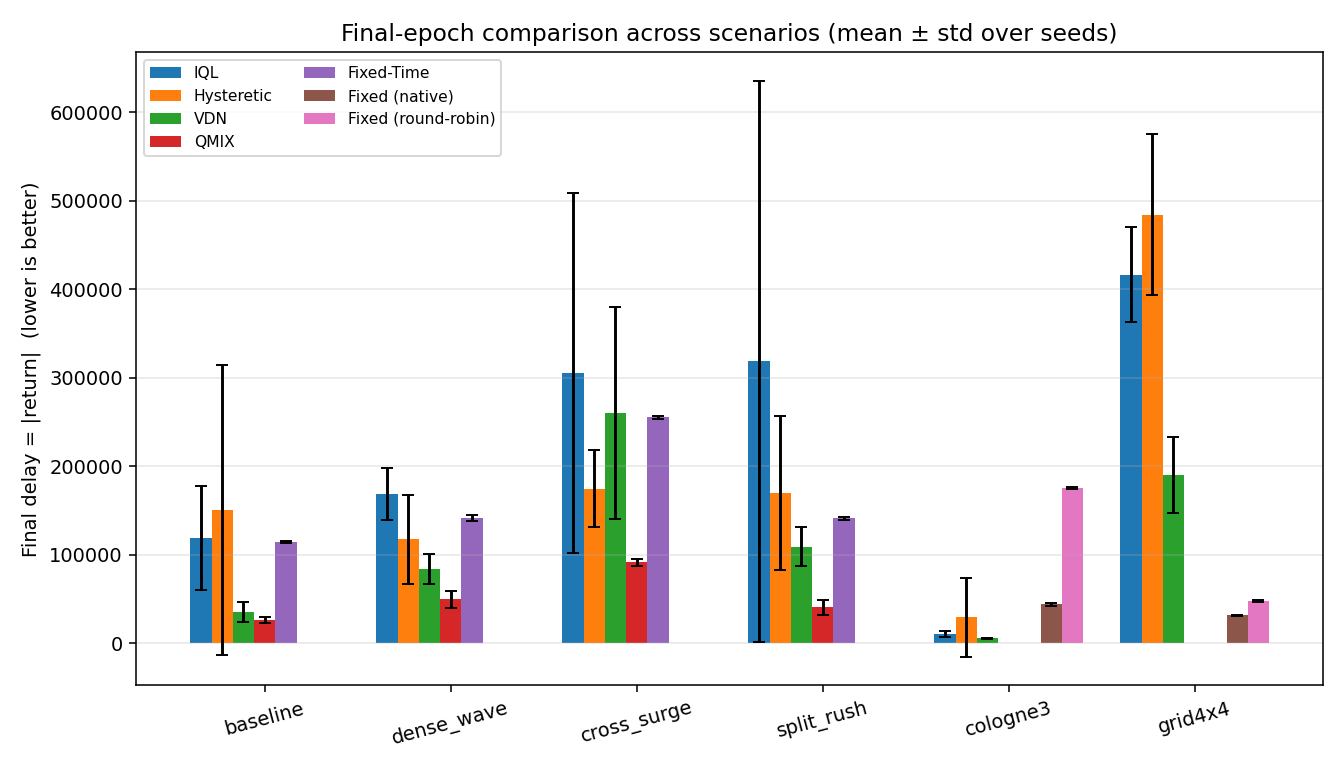
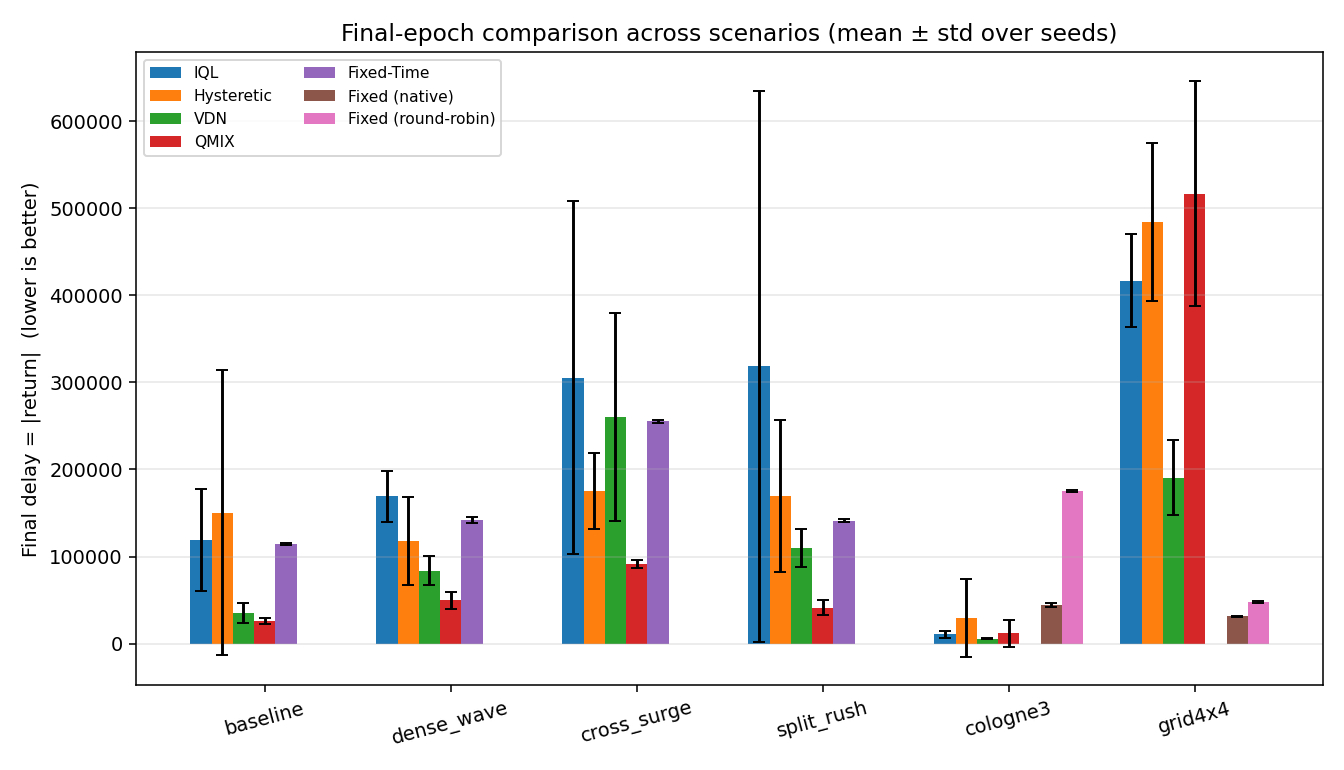
results: QMIX on RESCO (5 seeds) + deck findings on MARL scalability
Backfilled QMIX on cologne3/grid4x4 (5 seeds each) and re-aggregated the full
algorithm x problem grid.

Findings now in the deck:
- cologne3: value factorisation wins ~10x over fixed; QMIX hits the best peak
  policy but 1/5 seeds diverged late; VDN is the most reliable.
- grid4x4 (16 agents): NO learner beats fixed-time; QMIX is the WORST learner,
  below VDN and the tabular peaks -> expressiveness does not buy scalability under
  a fixed sample budget; the bottleneck is credit assignment/exploration at scale.
- updated takeaways/limitations (QMIX is no longer 1x4-only).

Regenerate outputs/aggregated/ and ATLC_MMDP_presentation.pptx (37 slides).

diff --git a/make_presentation.py b/make_presentation.py
@@ -311,6 +311,36 @@ if have_agg:
         q = os.path.join(AGG_DIR, f"{scen}_qmix.png")
         if os.path.exists(q):
             add_image_slide(f"{scen}: QMIX (CTDE) learning curve", q)
+
+    # ---- Focused analysis of the RESCO / QMIX-at-scale results
+    add_bullets("Finding: QMIX (CTDE) extends to real multi-phase junctions", [
+        ("We generalised QMIX from the 1x4 topology to RESCO: agent count, observation dim and "
+         "per-agent action count are now read from the env (cologne3: 3 agents, 3-4 phases; "
+         "grid4x4: 16 agents, 8 phases).", 0),
+        ("cologne3 - value factorisation wins decisively:", 0),
+        ("All factorised/independent learners beat both fixed-time baselines (native -44k, round-robin -175k).", 1),
+        ("QMIX reaches the best single-run policy of any method (peak ~ -2.9k); 4 of 5 seeds converge "
+         "to ~ -3.5k.", 1),
+        ("But QMIX shows late-training instability: 1 of 5 seeds diverged to -43k, inflating its mean/variance.", 1),
+        ("VDN is the most RELIABLE winner on cologne3 (-5.4k +/- 0.4k) - near-best and low variance.", 1),
+    ])
+    add_bullets("Finding: at 16 agents, expressiveness does NOT buy scalability", [
+        ("grid4x4 (16 agents x 8 phases, single global reward): NO learner beats fixed-time (native -31k).", 0),
+        ("Among learners, simple VDN is best (late-window -156k); QMIX is the WORST learner (-452k) -",  0),
+        ("worse than VDN and even below the tabular learners' best policies.", 1),
+        ("Interpretation: the bottleneck at scale is sample-efficiency / credit assignment / exploration,", 0),
+        ("NOT mixer expressiveness. Under a fixed 500-episode budget, QMIX's heavier deep hypernetwork "
+         "mixer (over a 64-dim joint state, 16 agents) is harder to train than VDN's simple sum.", 1),
+        ("More expressive != better at scale when samples are the binding constraint - a clean negative result.", 1),
+    ])
+    add_bullets("The scalability picture (complete algorithm x problem grid)", [
+        ("Small scale (1x4 corridor, cologne3): value factorisation wins; QMIX/VDN beat fixed-time and "
+         "the independent learners.", 0),
+        ("Large scale (grid4x4, 16 agents): cooperative MARL hits a wall - even the most expressive "
+         "method fails to beat fixed-time, and expressiveness does not rescue it.", 0),
+        ("Severity scales with agent count and phase count (2 -> ok, 3-4 -> RL wins, 8x16 -> RL loses),", 1),
+        ("pointing to coordination/credit-assignment at scale as the open problem, not the algorithm class.", 1),
+    ])
 else:
     add_bullets("Results status (DRAFT - awaiting the multi-seed sweep)", [
         ("This deck was built before the 5-seed SLURM sweep completed.", 0),
@@ -340,14 +370,21 @@ add_section_header("Takeaways & outlook")
 add_bullets("Takeaways", [
     ("On the 1x4 MMDP, value factorisation wins: QMIX (CTDE) beats coordinated fixed-time on every scenario.", 0),
     ("VDN/QMIX (CTDE) consistently outperform independent learners (IQL/Hysteretic) under a shared reward.", 1),
-    ("Variance matters: tabular learners are high-variance, so we report mean +/- std across seeds, not single runs.", 0),
+    ("Generalised to real RESCO junctions: on cologne3 (3 agents) factorisation beats fixed-time by ~10x; "
+     "QMIX hits the best peak policy, VDN is the most reliable.", 0),
+    ("Scalability wall: at grid4x4 (16 agents) NO learner beats fixed-time, and QMIX's heavier mixer is the "
+     "WORST learner - expressiveness does not buy scale under a fixed sample budget.", 0),
+    ("Variance matters: we report final / late-window / peak (mean +/- std across 5 seeds), not single runs; "
+     "deep learners can find a great policy yet fail to hold it (1 cologne3 QMIX seed diverged).", 0),
     ("Modelling fidelity is decisive: getting the action space and observation right was the difference "
      "between no learning and learning on the real RESCO benchmarks.", 0),
 ])
 add_bullets("Limitations & future work", [
-    ("QMIX is currently specialised to the 1x4 topology; generalising it to RESCO (3/16 agents, "
-     "variable phases) is the natural next step.", 0),
-    ("Hyperparameter tuning and longer training for the tabular learners on RESCO.", 0),
+    ("grid4x4 is unsolved by all methods: the open problem is coordination / credit assignment at 16 agents, "
+     "not the algorithm class - try a larger sample budget, reward shaping, or per-agent rewards.", 0),
+    ("Stabilise deep CTDE: early-stopping / Double-Q / target smoothing to prevent the late-training "
+     "divergence seen on cologne3 QMIX.", 0),
+    ("Hyperparameter tuning and longer training for both tabular and deep learners on RESCO.", 0),
     ("Add per-agent metrics (throughput, average delay) alongside the global reward.", 0),
     ("Statistical significance tests across seeds for the headline comparisons.", 0),
 ])

diff --git a/outputs/aggregated/summary.md b/outputs/aggregated/summary.md
@@ -33,8 +33,10 @@ Return = sum of system negative waiting time over the eval episode (higher / les
 | cologne3 | VDN | -5,510 ± 626 | -5,368 ± 371 | -3,882 ± 249 | 5 |
 | cologne3 | Fixed (native) | -44,047 ± 2,073 | -44,047 ± 2,073 | -44,047 ± 2,073 | 5 |
 | cologne3 | Fixed (round-robin) | -175,498 ± 1,415 | -175,498 ± 1,415 | -175,498 ± 1,415 | 5 |
+| cologne3 | QMIX | -11,779 ± 15,624 | -14,429 ± 13,241 | -2,947 ± 266 | 5 |
 | grid4x4 | IQL | -416,788 ± 53,524 | -496,058 ± 35,573 | -272,110 ± 29,998 | 5 |
 | grid4x4 | Hysteretic | -484,504 ± 90,652 | -462,960 ± 38,059 | -239,863 ± 23,343 | 5 |
 | grid4x4 | VDN | -190,620 ± 43,112 | -155,544 ± 23,682 | -93,341 ± 21,451 | 5 |
 | grid4x4 | Fixed (native) | -31,498 ± 587 | -31,498 ± 587 | -31,498 ± 587 | 5 |
 | grid4x4 | Fixed (round-robin) | -47,571 ± 1,031 | -47,571 ± 1,031 | -47,571 ± 1,031 | 5 |
+| grid4x4 | QMIX | -517,038 ± 129,346 | -451,590 ± 87,427 | -307,420 ± 16,159 | 5 |
